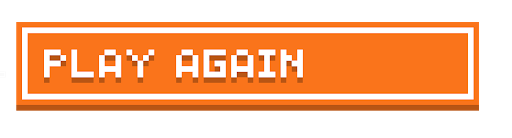
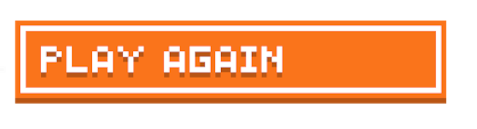
dodanie ekranu startowego i game over
Duża ważna zmiana.
Wprowadzenie arcade.View
Dodanie przycisku w game over zaczynający rozgrywkę od nowa

diff --git a/flappy_bird.py b/flappy_bird.py
@@ -2,19 +2,19 @@
 from pipe import Pipe
 from Bird import Bird
 from pipe import Pipe
-from game_state import State
+import differents_views
 import random
 import arcade
 import os
 from game_variables import *
-# from buttons import *
 
-class Game(arcade.Window):
+class GameView(arcade.View):
 
-    def __init__(self, width, height):
+    def __init__(self):
         """ Inite game window"""
-        super().__init__(width, height, title="Flappy Birds")
-
+        super().__init__()
+        self.width = GAME_WIDTH
+        self.height = GAME_HEIGHT
         self.sprites = None
         self.pipe_sprites = None
         self.bird = None
@@ -22,9 +22,6 @@ class Game(arcade.Window):
         self.background = None
         #List of birds
         self.bird_list = None
-        #Initial state of game
-        self.state = State.MAIN_MENU
-
         self.flapped = False
         self.score = 0
         self.dx = 0 # how many pixels pipes move
@@ -43,8 +40,6 @@ class Game(arcade.Window):
         start_pipes = Pipe.random_size_pipe(self.height,self.width)
         self.pipe_sprites.extend(start_pipes)
 
-        # #Create buttons
-        # self.play_again = PlayAgainButton(self.width // 2 , self.height //3)
         
     def draw(self):
         """Funcion draw background"""
@@ -52,7 +47,6 @@ class Game(arcade.Window):
 
     def on_draw(self):
         """ This is the method called when the drawing time comes."""
-        self.ui_manager = None
         #render all objects
         arcade.start_render()
 
@@ -62,53 +56,51 @@ class Game(arcade.Window):
 
     def on_key_release(self, symbol, modifiers):
         if symbol == arcade.key.SPACE:
-            if self.state == State.PLAYING:
-                self.flapped = True
-            elif self.state == State.MAIN_MENU:
-                self.state = State.PLAYING
+            self.flapped = True
+
 
     def update(self,dt):
-        if self.state == State.PLAYING:
-            if self.flapped:
-                self.bird.flap()
-                self.flapped = False
+        
+        if self.flapped:
+            self.bird.flap()
+            self.flapped = False
 
-            # Check if bird is too high
-            if self.bird.top > self.height:
-                self.bird.top = self.height
+        # Check if bird is too high
+        if self.bird.top > self.height:
+            self.bird.top = self.height
 
-            # Check if bird is too low
-            if self.bird.bottom <= 0:
-                self.bird.bottom = 0
-            
-            self.dx += PIPE_SPEED
-            if self.dx > random.randrange(MIN_DISTACE_OF_PIPES, MAX_DISTACE_OF_PIPES):
-                self.dx = 0
-                new_pipe = Pipe.random_size_pipe(self.height, self.width)
-                self.pipe_sprites.extend(new_pipe)
+        # Check if bird is too low
+        if self.bird.bottom <= 0:
+            self.bird.bottom = 0
+        
+        self.dx += PIPE_SPEED
+        if self.dx > random.randrange(MIN_DISTACE_OF_PIPES, MAX_DISTACE_OF_PIPES):
+            self.dx = 0
+            new_pipe = Pipe.random_size_pipe(self.height, self.width)
+            self.pipe_sprites.extend(new_pipe)
 
-            for pipe in self.pipe_sprites:
-                if pipe.right <= 0:
-                    pipe.kill()
+        for pipe in self.pipe_sprites:
+            if pipe.right <= 0:
+                pipe.kill()
 
-            self.pipe_sprites.update()
-            self.bird.update()
+        self.pipe_sprites.update()
+        self.bird.update()
 
-            hit = arcade.check_for_collision_with_list(self.bird, self.pipe_sprites)
-            if any(hit):
-                self.bird.die()
-                self.state = State.GAME_OVER
-        elif self.state == State.GAME_OVER:
-            # self.ui_manager = UIManager()
-            # self.ui_manager.add_ui_element(self.play_again)
-            # arcade.start_render()
-            pass
+        hit = arcade.check_for_collision_with_list(self.bird, self.pipe_sprites)
+        if any(hit):
+            self.bird.die()
+            view = differents_views.GameOverView()
+            self.window.show_view(view)
+        
+
 
 def run_game():
     os.chdir(os.path.split(os.path.realpath(__file__))[0])
-    game = Game(GAME_WIDTH, GAME_HEIGHT )
-    game.setup()
+    window = arcade.Window(GAME_WIDTH, GAME_HEIGHT, "Flappy Bird")
+    start_view = differents_views.StartView()
+    window.show_view(start_view)
     arcade.run()
+
 
 if __name__ == "__main__":
     run_game()

diff --git a/differents_views.py b/differents_views.py
@@ -1,0 +1,60 @@
+import arcade 
+import flappy_bird
+import buttons
+from game_variables import *
+from arcade.gui import UIManager
+
+class StartView(arcade.View):
+    """View with start"""
+    def __init__(self):
+        super().__init__()
+        self.background = arcade.load_texture(BACKGROUNDS[0])
+        self.width = GAME_WIDTH
+        self.height = GAME_HEIGHT
+
+    def on_show(self):
+        arcade.start_render()
+        
+
+    def on_draw(self):
+        arcade.start_render()
+        arcade.draw_texture_rectangle(self.width //2 , self.height // 2, self.width, self.height, self.background)
+
+    def on_mouse_press(self, x, y, button, modifiers):
+        game_view = flappy_bird.GameView()
+        game_view.setup()
+        self.window.show_view(game_view)
+    
+    def on_key_release(self, symbol, modifiers):
+        if symbol == arcade.key.SPACE:
+            game_view = flappy_bird.GameView()
+            game_view.setup()
+            self.window.show_view(game_view)
+
+class GameOverView(arcade.View):
+    """View with game over"""
+    def __init__(self):
+        super().__init__()
+        self.background = arcade.load_texture(BACKGROUNDS[0])
+        self.width = GAME_WIDTH
+        self.height = GAME_HEIGHT
+        self.game_over = arcade.load_texture(GAME_OVER[0])
+        self.ui_menager = UIManager()
+
+    def on_hide_view(self):
+        self.ui_menager.unregister_handlers()
+
+    def on_show_view(self):
+        self.setup()
+
+    def setup(self):
+        self.ui_menager.purge_ui_elements()
+        button = buttons.PlayAgainButton(self.width //2 , self.height // 4)
+        
+        self.ui_menager.add_ui_element( button)
+        
+    def on_draw(self):
+       
+        arcade.start_render()
+        arcade.draw_texture_rectangle(self.width //2 , self.height // 2, self.width, self.height, self.background)
+        arcade.draw_scaled_texture_rectangle(self.width //2 ,self.game_over.height, self.game_over,)

diff --git a/buttons.py b/buttons.py
@@ -1,0 +1,12 @@
+import arcade
+import flappy_bird
+from arcade.gui import  UIImageButton
+from game_variables import *
+
+class PlayAgainButton(UIImageButton):
+    def __init__(self, center_x, center_y,normal_texture=arcade.load_texture(BUTTONS["play_again"]) ):
+        super().__init__(normal_texture,center_x=center_x, center_y=center_y,)
+    def on_click(self):
+        view = flappy_bird.GameView()
+        view.setup()
+        view.window.show_view(view)

diff --git a/game_variables.py b/game_variables.py
@@ -5,6 +5,7 @@ GAME_HEIGHT = 322 * 2
 BACKGROUNDS = ["asserts" + sep + "Images" + sep + "background1.png"]
 BIRDS = ["asserts" + sep + "Images" + sep + "bird1.png"]
 PIPES = ["asserts" + sep + "Images" + sep + "green_pipe.png"]
+GAME_OVER = ["asserts" + sep + "Images" + sep + "game_over.png"]
 BUTTONS = {"play_again": "asserts" + sep + "Images" + sep + "play_again.png" }
 
 JUMP_DY = 60 # how many pixels bird per flap
